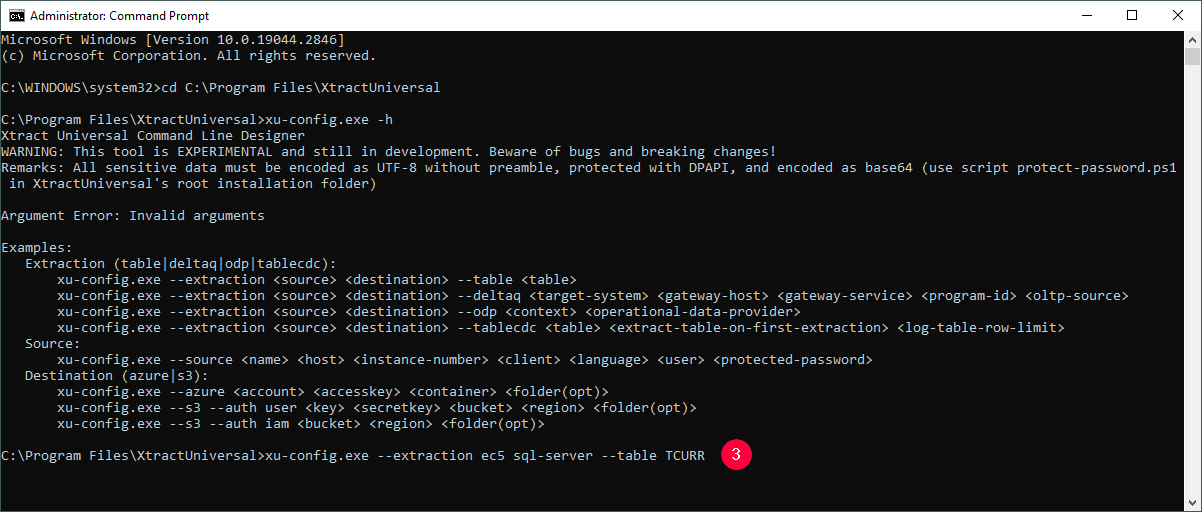
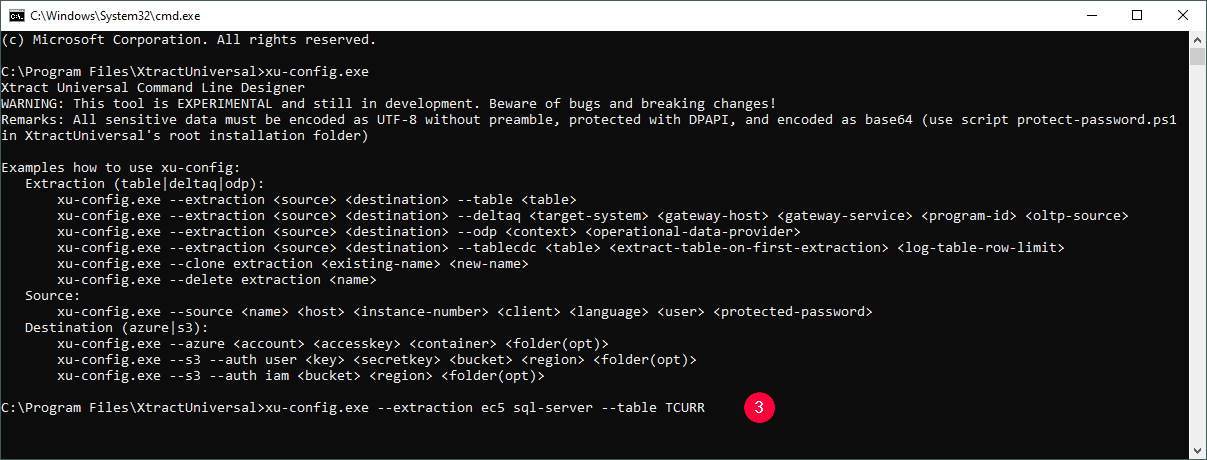
xu-config.exe screenshot update + examples

Changed region(s): [[0.0, 0.0, 1.0, 0.913]]

diff --git a/content/_xtract-universal/using-config-command-line-tool.md b/content/_xtract-universal/using-config-command-line-tool.md
@@ -85,7 +85,20 @@ The names of the parameters are not case sensitive. <br>
 **Note:** The following table settings are set by default after creation: **Package Size** (50000), **Extract data in background job** (enabled), all columns are selected for output.
 
 {: .box-tip }
-**Tip:** Use the command `xu-config.exe -h` to find examples for Table, Table CDC, ODP and DeltaQ extractions.
+**Tip:** Use the command `xu-config.exe -h` to look up the syntax for Table, Table CDC, ODP and DeltaQ extractions.
+
+#### Example Extractions
+
+| Extraction Type | Example Command |
+| :------ |:--- | :--- | :--- | :--- |
+| Table | `xu-config.exe --extraction ec5 sql-server --table TCURR` |
+| DeltaQ | `xu-config.exe --extraction ec5 sql-server --table TCURR` |
+| ODP (ABAP Core Data Services)| `xu-config.exe --extraction bw2 sql-server --odp ABAP_CDS UCONRFC_ATTR$F` |
+| ODP (SAP NetWeaver Business Warehouse)| `xu-config.exe --extraction bw2 sql-server --odp BW 0ADDR_SHORT$T` |
+| ODP (SAP HANA Information Views)| `xu-config.exe --extraction S4H sql-server --odp HANA HCCT232H1KHY32F7UL59IH224$F` |
+| ODP (DataSources/Extractors)| `xu-config.exe --extraction ec5 sql-server --odp SAPI 2LIS_11_VAITM` |
+| Table CDC (extract table on first run)| `xu-config.exe --extraction ec5 csv --tablecdc KNA1 true 5000` |
+| Table CDC (do not extract table on first run)| `xu-config.exe --extraction ec5 csv --tablecdc KNA1 false 10000` |
 
 #### Creating multiple Table Extractions using a PowerShell-Script
 
@@ -127,6 +140,7 @@ foreach ($tableName in $tableList) {
 	}    	  
 }
 ```
+
 
 
 *****
